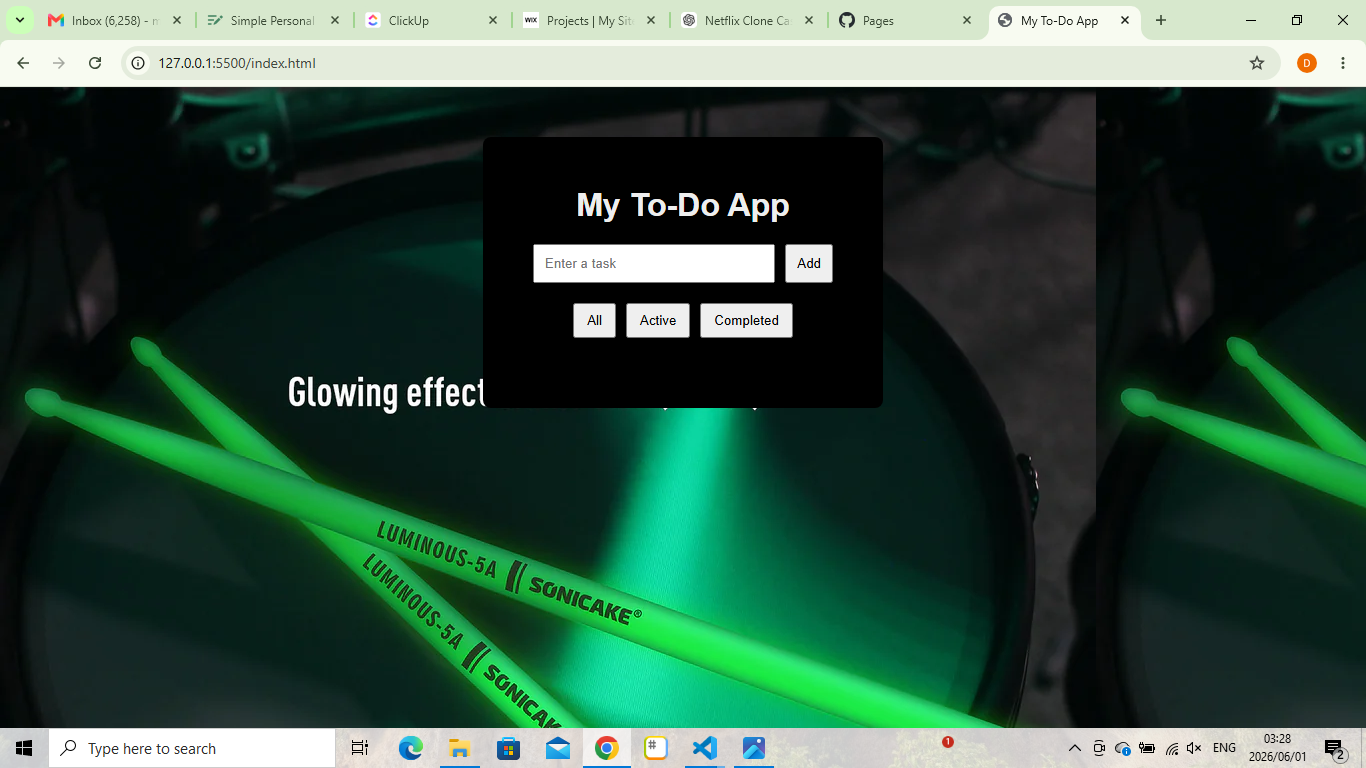
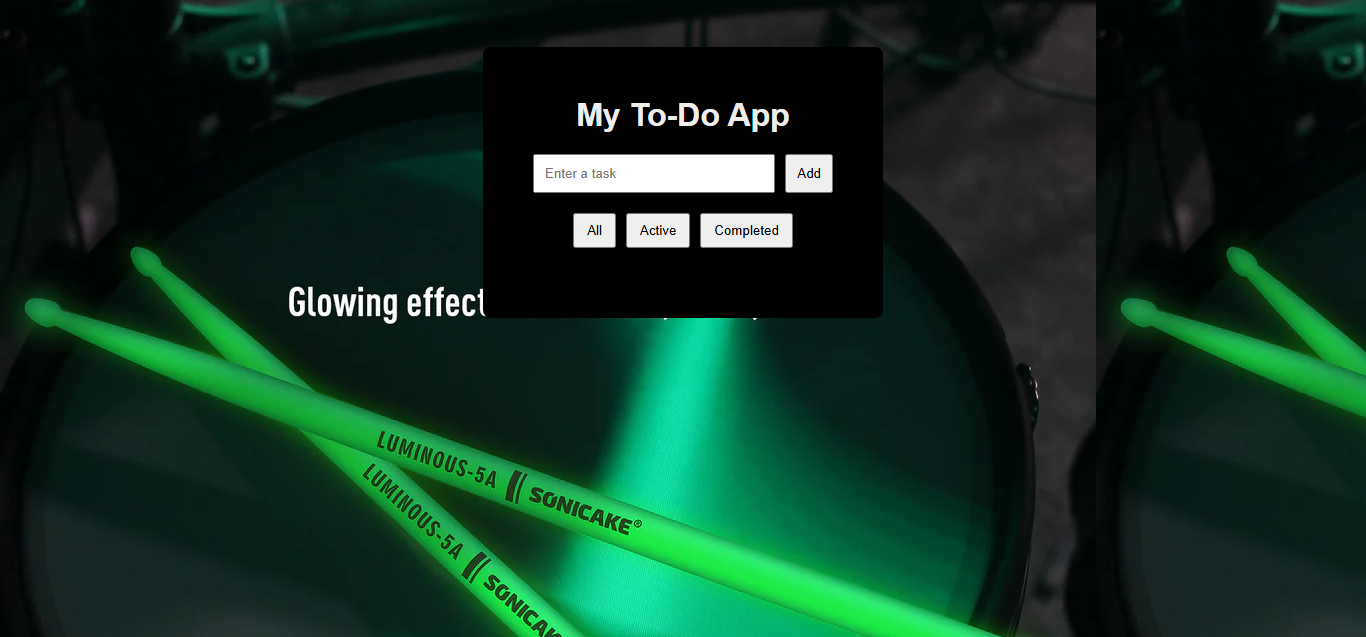
added img to projects added link to drum web

diff --git a/index.html b/index.html
@@ -165,13 +165,13 @@
             <!-- YouTube -->
             <div class="col-lg-4 col-md-6">
                 <div class="card project-card">
-                    <img src="images/youtube.jpg" class="card-img-top project-img">
+                    <img src="./assets/Screenshot (19).png" class="card-img-top project-img">
                     <div class="card-body">
                         <h5>YouTube Clone</h5>
                         <small>Built with Bootstrap</small>
 
                         <div class="mt-3">
-                            <a href="#" class="btn btn-primary">View Website</a>
+                            <a href="https://masengodido28-lgtm.github.io/Youtube-clone1/" class="btn btn-primary">View Website</a>
                             <a href="#" class="btn btn-outline-dark">
                                 <i class="bi bi-code-slash"></i>
                             </a>
@@ -183,7 +183,7 @@
             <!-- To-Do App -->
             <div class="col-lg-4 col-md-6">
                 <div class="card project-card">
-                    <img src="./assets/to-do ss.png" class="card-img-top project-img">
+                    <img src="./assets/Screenshot (9).png" class="card-img-top project-img">
                     <div class="card-body">
                         <h5>To-Do App</h5>
                         <small>Built with HTML, CSS & JavaScript</small>
@@ -201,7 +201,7 @@
             <!-- Live search bar-->
             <div class="col-lg-4 col-md-6">
                 <div class="card project-card">
-                    <img src="./assets/Screenshot (9).png" class="card-img-top project-img">
+                    <img src="./assets/to-do ss.png" class="card-img-top project-img">
                     <div class="card-body">
                         <h5>Live Search Bar</h5>
                         <small>Built with HTML & CSS & JavaScript</small>
@@ -219,13 +219,13 @@
             <!-- Drum Web -->
             <div class="col-lg-4 col-md-6">
                 <div class="card project-card">
-                    <img src="images/restaurant.jpg" class="card-img-top project-img">
+                    <img src="./assets/drumweb ss.png" class="card-img-top project-img">
                     <div class="card-body">
                         <h5>Drum Web</h5>
                         <small>Built with HTML, CSS</small>
 
                         <div class="mt-3">
-                            <a href="#" class="btn btn-primary">View Website</a>
+                            <a href="https://masengodido28-lgtm.github.io/Drum-Web2/" class="btn btn-primary">View Website</a>
                             <a href="#" class="btn btn-outline-dark">
                                 <i class="bi bi-code-slash"></i>
                             </a>